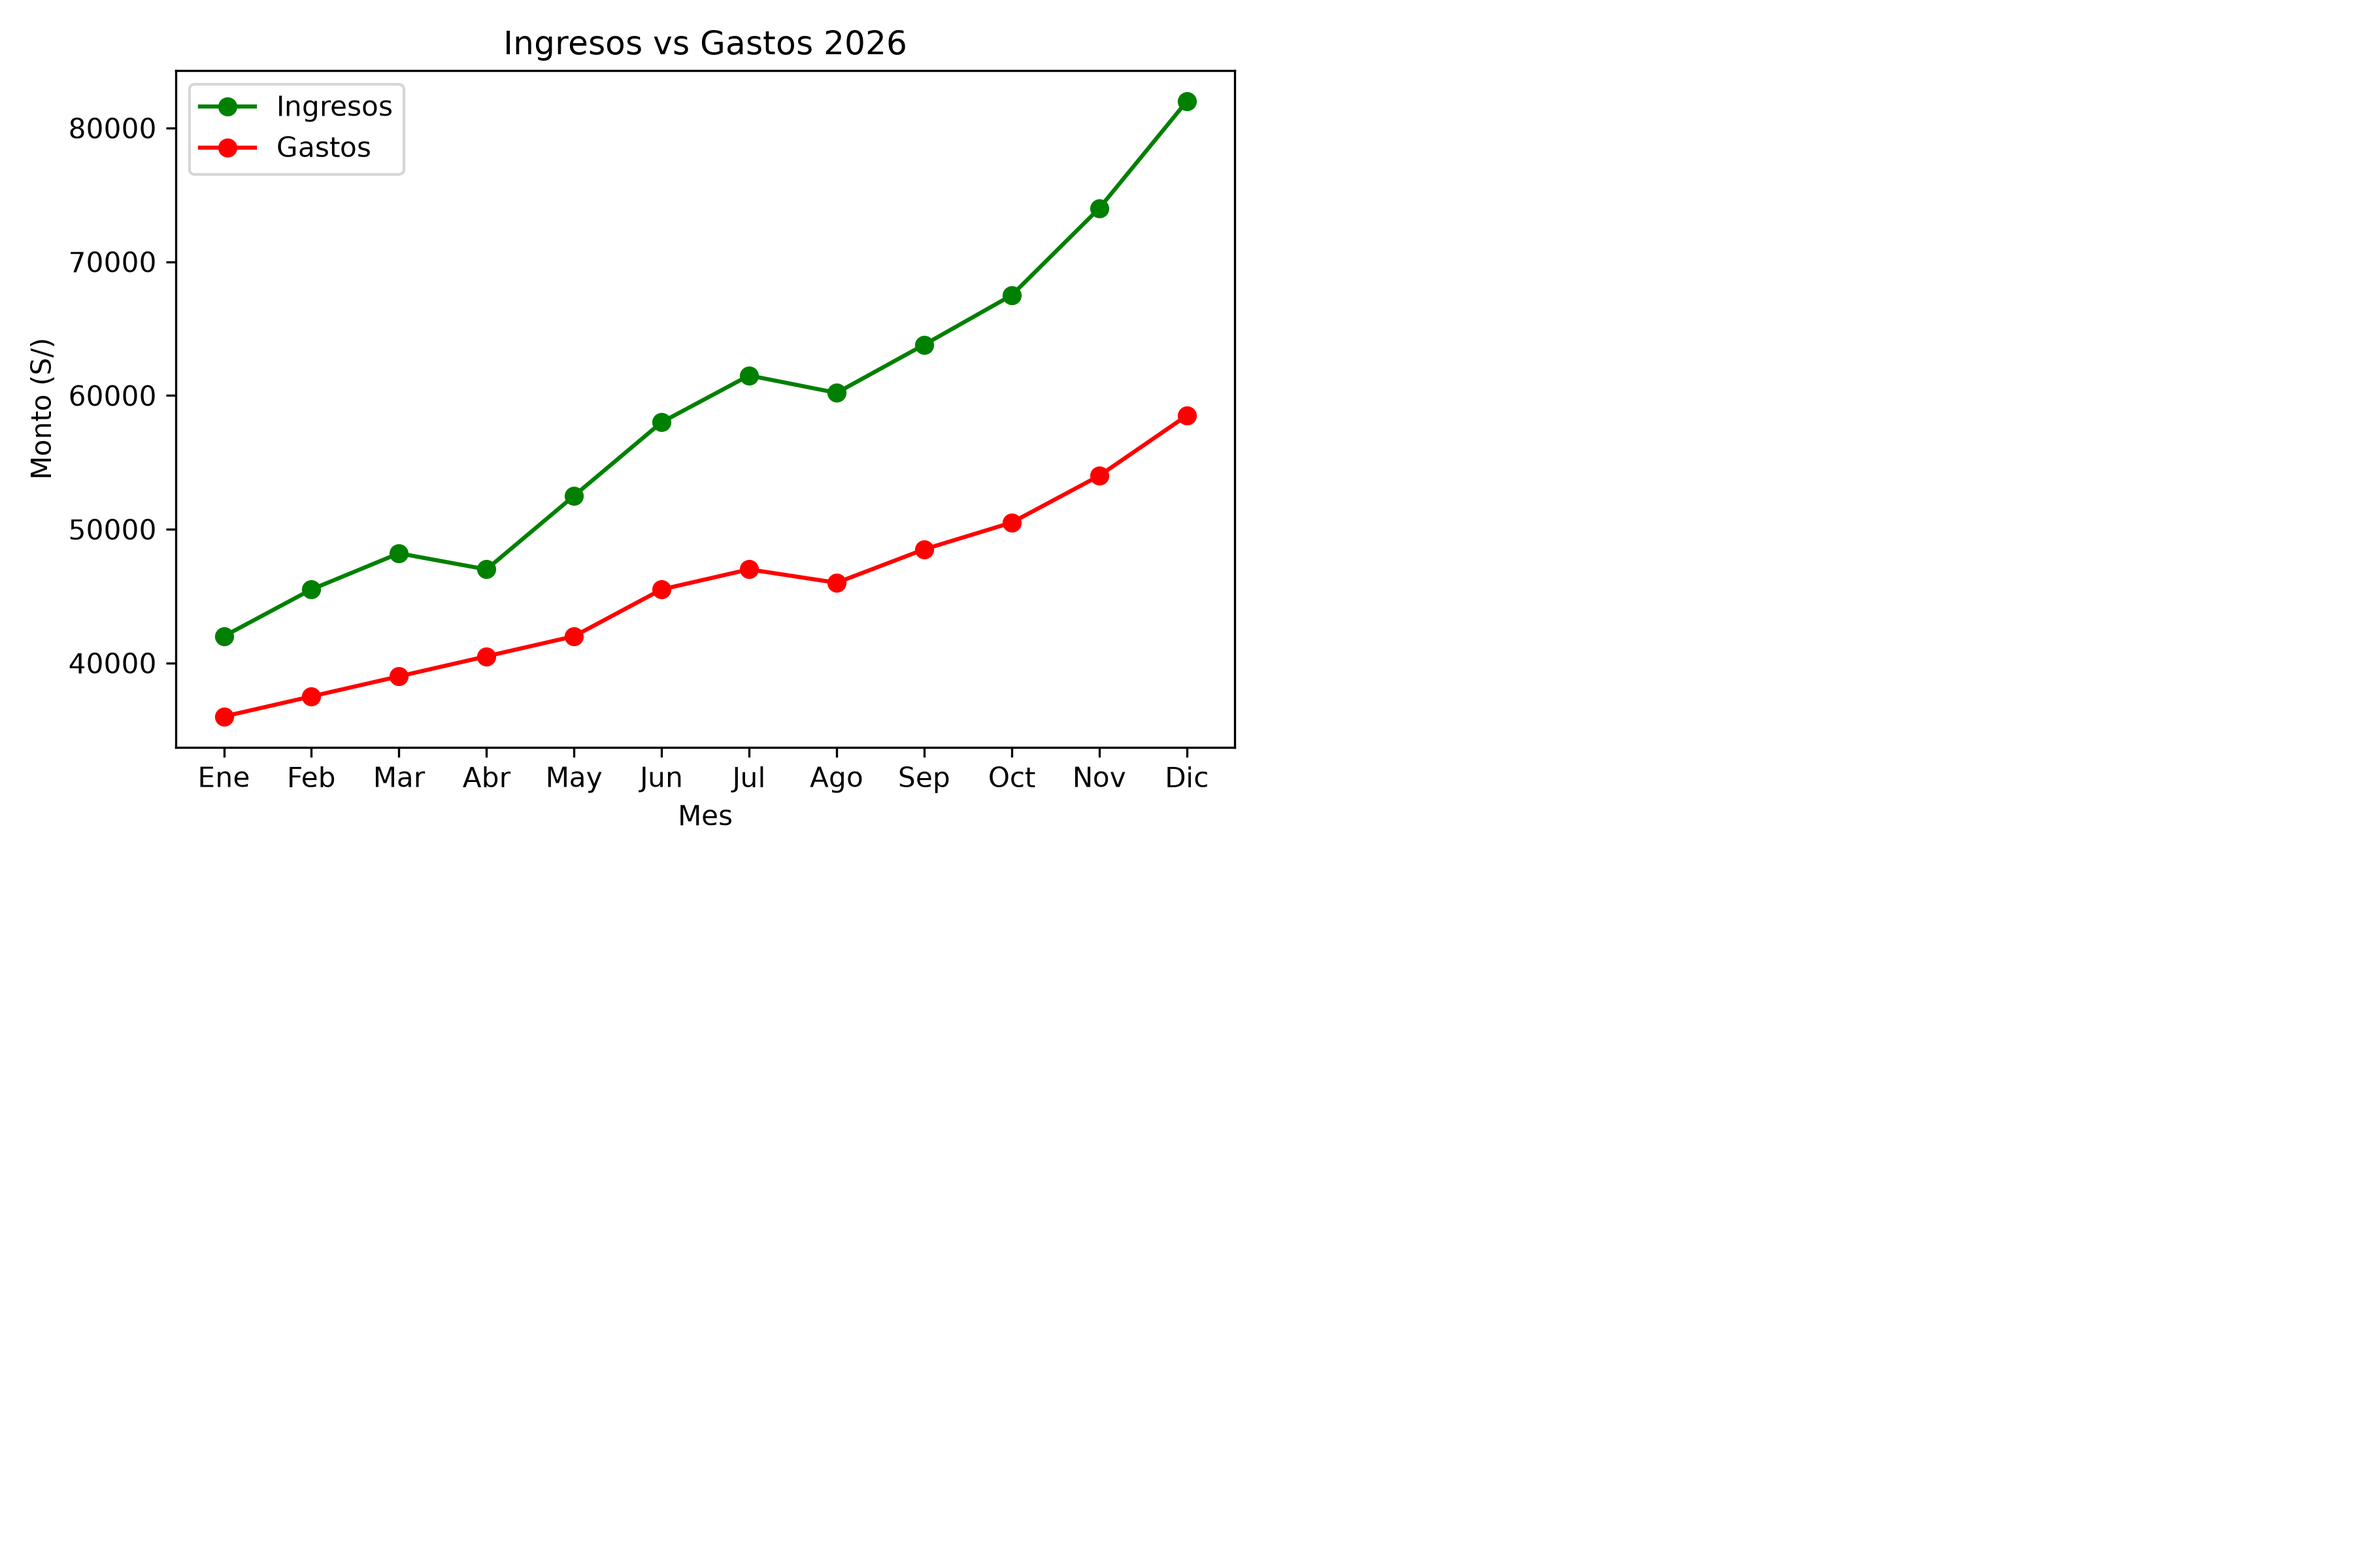
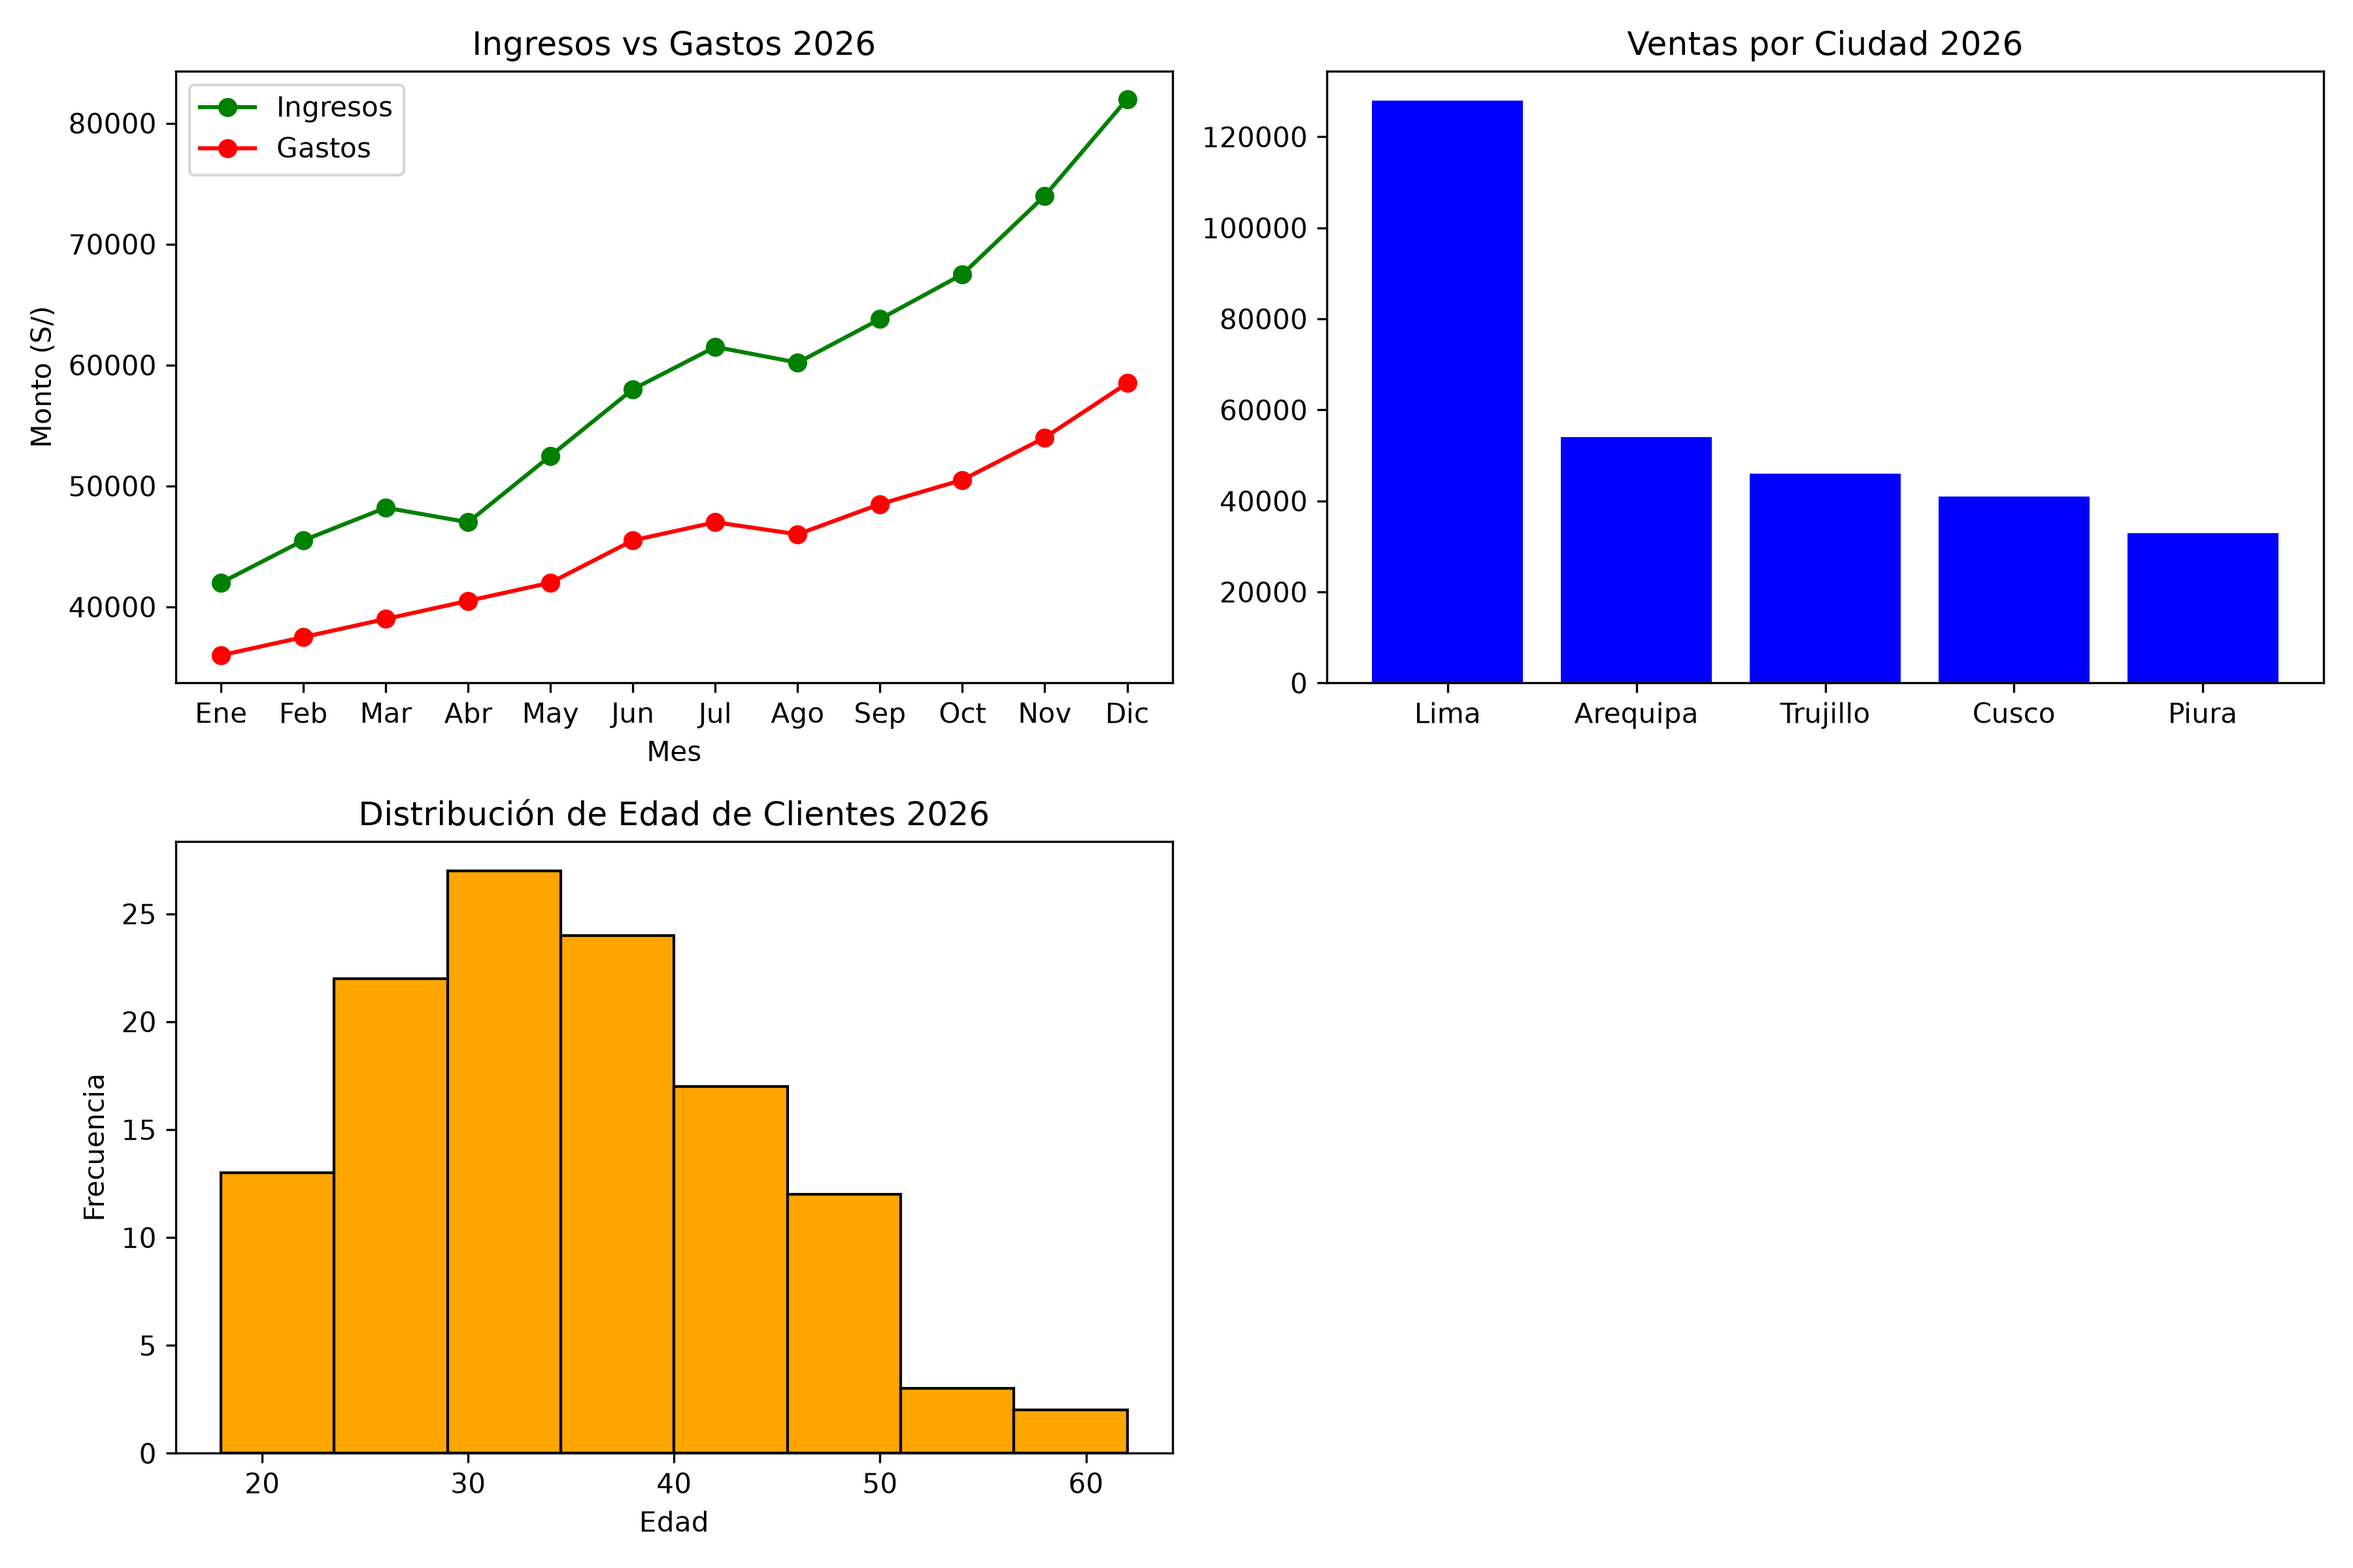
add main.py for data visualization using matplotlib

diff --git a/sesion-5/matplotlib/proyecto_final/main.py b/sesion-5/matplotlib/proyecto_final/main.py
@@ -30,6 +30,16 @@ plt.xlabel("Mes")
 plt.ylabel("Monto (S/)")
 plt.legend()
 
+plt.subplot(2, 2, 2)
+plt.bar(ciudades["ciudad"], ciudades["ventas"], color="blue")
+plt.title("Ventas por Ciudad 2026")
+
+plt.subplot(2, 2, 3)
+plt.hist(clientes["edad"], bins=8, color="orange", edgecolor="black")
+plt.title("Distribución de Edad de Clientes 2026")
+plt.xlabel("Edad")
+plt.ylabel("Frecuencia")
+
 plt.tight_layout()
 plt.savefig("salidas/tablero.png", dpi=300)
 plt.close()
